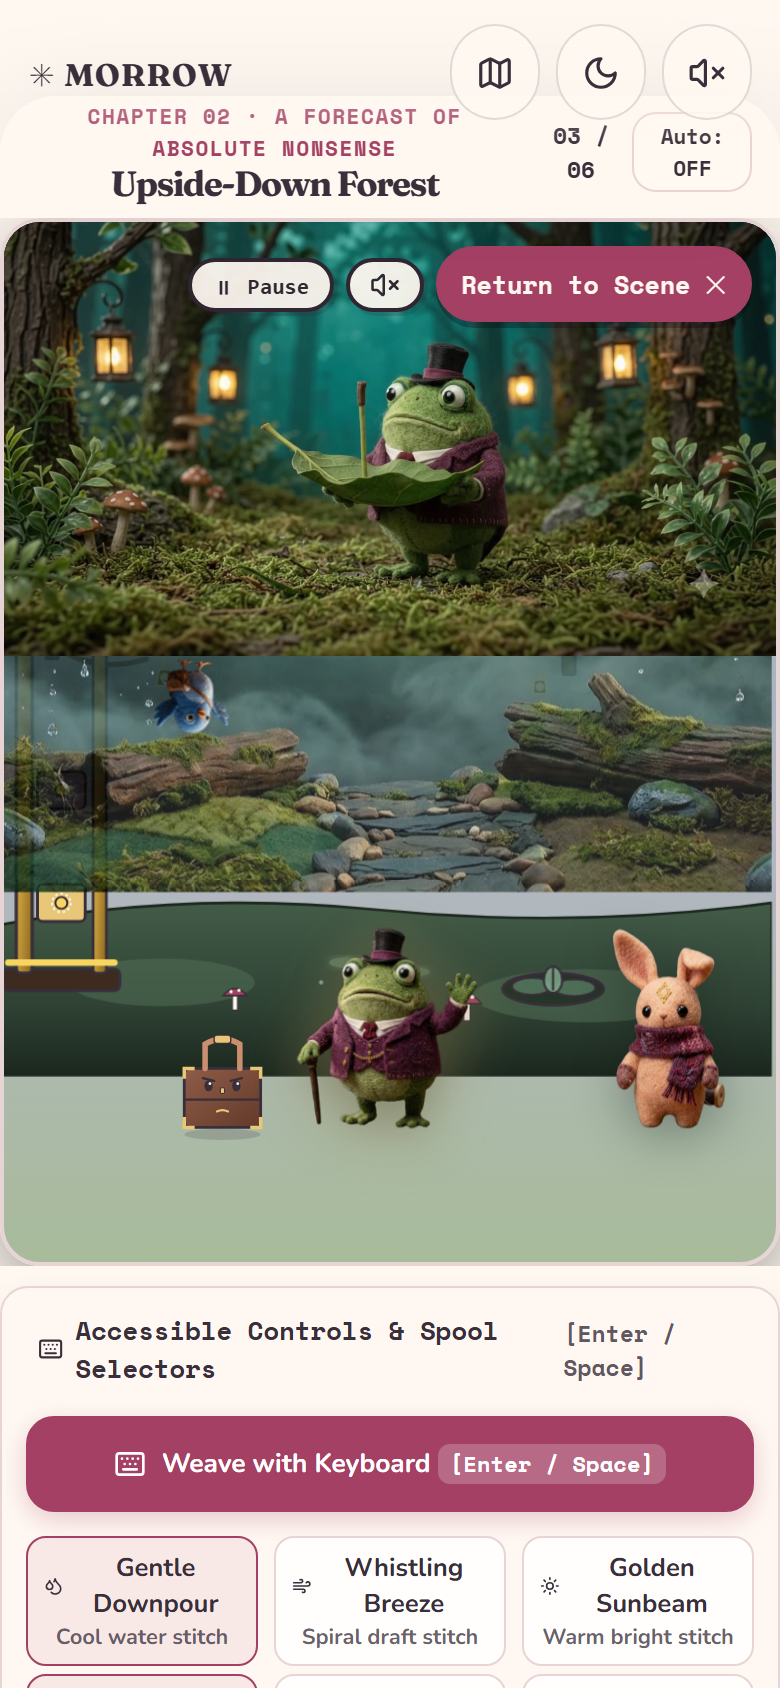
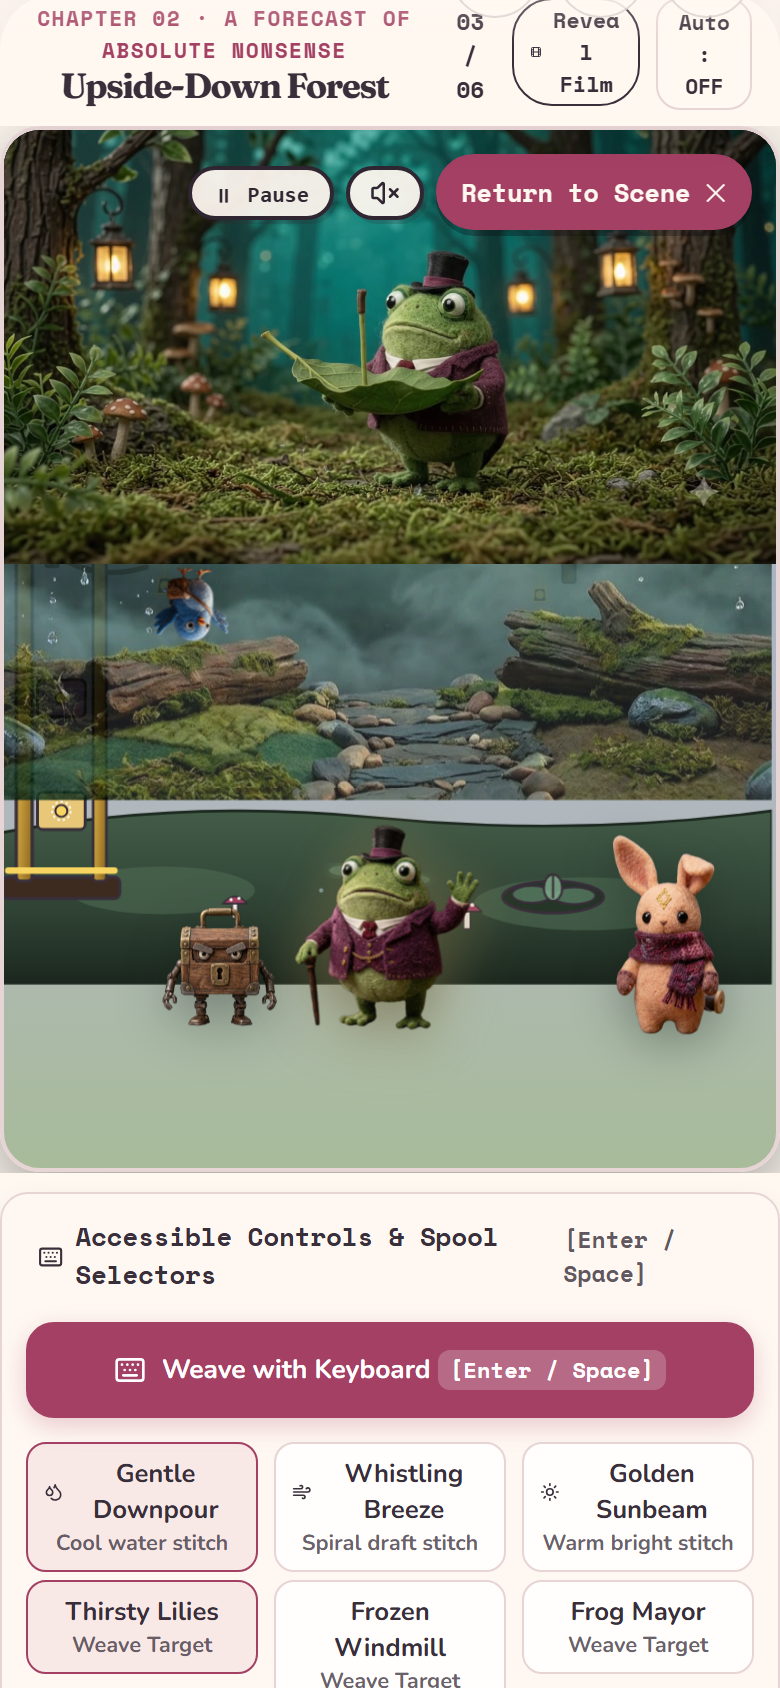
fix(release): reset actor sprite states, wire all gameplay video modals, and verify desktop/mobile visual QA

diff --git a/src/components/art/WeatherStage.tsx b/src/components/art/WeatherStage.tsx
@@ -232,7 +232,21 @@ export const SceneFrogMayor: React.FC<{ isSpeaking?: boolean; isWarmed?: boolean
  * Full-Frame In-Engine Cinematic Reveal Modal (Frog Mayor's Umbrella Disaster)
  * Plays real Google Flow MP4 when present; otherwise renders authoritative in-engine stop-motion sequence.
  */
-export const CinematicWeatherReveal: React.FC<{ onReturn: () => void }> = ({ onReturn }) => {
+export interface CinematicWeatherRevealProps {
+  onReturn: () => void;
+  videoSrc?: string;
+  title?: string;
+  speaker?: string;
+  caption?: string;
+}
+
+export const CinematicWeatherReveal: React.FC<CinematicWeatherRevealProps> = ({
+  onReturn,
+  videoSrc = '/cinematics/weather-02-umbrella.mp4',
+  title = 'UPSIDE-DOWN FOREST DISASTER',
+  speaker = 'FROG MAYOR',
+  caption = '“The rain is falling UP. My umbrella is now a bucket.”',
+}) => {
   const [isPlaying, setIsPlaying] = useState(true);
   const [isMuted, setIsMuted] = useState(true);
   const [videoLoaded, setVideoLoaded] = useState(false);
@@ -260,12 +274,12 @@ export const CinematicWeatherReveal: React.FC<{ onReturn: () => void }> = ({ onR
   };
 
   return (
-    <div className="living-cinematic-bridge-modal" role="dialog" aria-modal="true" aria-label="Frog Mayor Umbrella Disaster Reveal">
+    <div className="living-cinematic-bridge-modal" role="dialog" aria-modal="true" aria-label={`${speaker} ${title} Reveal`}>
       <div className="cinematic-reveal-stage">
         {/* Real MP4 Video if available in public/cinematics/ */}
         <video
           ref={videoRef}
-          src="/cinematics/weather-02-umbrella.mp4"
+          src={videoSrc}
           className="cinematic-media-video"
           playsInline
           autoPlay
@@ -336,10 +350,10 @@ export const CinematicWeatherReveal: React.FC<{ onReturn: () => void }> = ({ onR
             <g transform="translate(60, 285)">
               <rect width="520" height="55" rx="12" fill="#FFF8F1" stroke="#392F3B" strokeWidth="2.5" />
               <text x="20" y="24" style={{ font: '800 11px Space Mono, monospace' }} fill="#A34063" letterSpacing="0.06em">
-                FROG MAYOR · UPSIDE-DOWN FOREST DISASTER
+                {speaker} · {title}
               </text>
               <text x="20" y="44" style={{ font: '600 15px Nunito, sans-serif' }} fill="#392F3B">
-                “The rain is falling UP. My umbrella is now a bucket.”
+                {caption}
               </text>
             </g>
           </svg>
@@ -610,6 +624,21 @@ export const WeatherStage: React.FC<WeatherStageProps> = ({
         </div>
         <div className="storybook-scene-label-pill">
           <span>03 / 06</span>
+          <button
+            type="button"
+            className="balloon-action-btn balloon-video-btn"
+            style={{ padding: '2px 8px', fontSize: '0.68rem', display: 'inline-flex', alignItems: 'center', gap: '4px' }}
+            onClick={() => setShowCinematic(true)}
+            aria-label={
+              isCelebrating
+                ? 'Watch forest bloom celebration film'
+                : isWeaving
+                ? 'Watch weather loom weaving film'
+                : 'Watch Frog Mayor umbrella disaster reveal film'
+            }
+          >
+            <Film size={12} /> {isCelebrating ? 'Bloom Film' : isWeaving ? 'Loom Film' : 'Reveal Film'}
+          </button>
           <button
             type="button"
             className="auto-dialogue-toggle"
@@ -1178,18 +1207,28 @@ export const WeatherStage: React.FC<WeatherStageProps> = ({
                   </button>
                 </>
               ) : (
-                <button
-                  type="button"
-                  className="balloon-action-btn balloon-video-btn"
-                  onClick={() => {
-                    setCurrentBeat(4);
-                    setSolvedTargets([]);
-                    setActivePointProgress(0);
-                  }}
-                  aria-label="Re-weave the weather loom"
-                >
-                  <RotateCcw size={14} /> Re-weave loom
-                </button>
+                <>
+                  <button
+                    type="button"
+                    className="balloon-action-btn balloon-video-btn"
+                    onClick={() => {
+                      setCurrentBeat(4);
+                      setSolvedTargets([]);
+                      setActivePointProgress(0);
+                    }}
+                    aria-label="Re-weave the weather loom"
+                  >
+                    <RotateCcw size={14} /> Re-weave loom
+                  </button>
+                  <button
+                    type="button"
+                    className="balloon-action-btn balloon-video-btn"
+                    onClick={() => setShowCinematic(true)}
+                    aria-label="Watch forest bloom celebration film"
+                  >
+                    <Film size={14} /> Bloom Film
+                  </button>
+                </>
               )}
             </div>
           </div>
@@ -1205,11 +1244,46 @@ export const WeatherStage: React.FC<WeatherStageProps> = ({
             <span style={{ fontSize: '0.75rem', opacity: 0.85, fontFamily: 'Space Mono, monospace' }}>
               Guide {activePointProgress + 1}/5
             </span>
+            <button
+              type="button"
+              className="balloon-action-btn balloon-video-btn"
+              style={{ marginLeft: 'auto', padding: '2px 8px', fontSize: '0.68rem' }}
+              onClick={() => setShowCinematic(true)}
+              aria-label="Watch weather loom weaving film"
+            >
+              <Film size={12} /> Loom Film
+            </button>
           </div>
         )}
 
         {/* IN-ENGINE CINEMATIC REVEAL MODAL */}
-        {showCinematic && <CinematicWeatherReveal onReturn={() => setShowCinematic(false)} />}
+        {showCinematic && (
+          <CinematicWeatherReveal
+            onReturn={() => setShowCinematic(false)}
+            videoSrc={
+              isCelebrating
+                ? '/cinematics/weather-05-bloom.mp4'
+                : isWeaving
+                ? '/cinematics/weather-04-loom.mp4'
+                : '/cinematics/weather-02-umbrella.mp4'
+            }
+            title={
+              isCelebrating
+                ? 'FOREST RESTORATION BLOOM'
+                : isWeaving
+                ? 'BRASS WEATHER LOOM IN MOTION'
+                : 'UPSIDE-DOWN FOREST DISASTER'
+            }
+            speaker={isCelebrating ? 'FROG MAYOR' : isWeaving ? 'MORROW' : 'FROG MAYOR'}
+            caption={
+              isCelebrating
+                ? '“Look! The canopy is lush, the blossoms drink deep, and warm sunlight fills the forest!”'
+                : isWeaving
+                ? '“Guiding the golden wool through the brass loom to weave the weather back into order.”'
+                : '“The rain is falling UP. My umbrella is now a bucket.”'
+            }
+          />
+        )}
       </section>
 
       {/* COMPACT CELEBRATION CONTINUATION BUTTON (Directly Below Stage) */}

diff --git a/src/components/art/StopMotionActor.tsx b/src/components/art/StopMotionActor.tsx
@@ -1,4 +1,4 @@
-import React, { useState } from 'react';
+import React, { useState, useEffect } from 'react';
 
 export type ActorId =
   | 'morrow'
@@ -71,6 +71,12 @@ export const StopMotionActor: React.FC<StopMotionActorProps> = ({
   };
 
   const [imageLoaded, setImageLoaded] = useState(false);
+
+  // Reset loading and error states whenever character or effective pose changes
+  useEffect(() => {
+    setImageLoaded(false);
+    setImageError(false);
+  }, [character, effectiveState]);
 
   return (
     <div

diff --git a/src/styles.css b/src/styles.css
@@ -1547,12 +1547,14 @@ img,svg,video,canvas { max-width:100%; }
 .living-shadow-scene {
   position: relative;
   overflow: hidden;
-  width: 100%;
+  width: min(100%, 780px);
+  margin: 0 auto;
   border-radius: 20px;
   border: 2px solid var(--line);
   background: #20192e;
-  min-height: clamp(520px, 82vw, 680px);
+  min-height: clamp(520px, 82vw, 640px);
   user-select: none;
+  box-shadow: 0 12px 36px rgba(16, 12, 24, 0.4);
 }
 
 .living-shadow-scene .storybook-scene-label {
